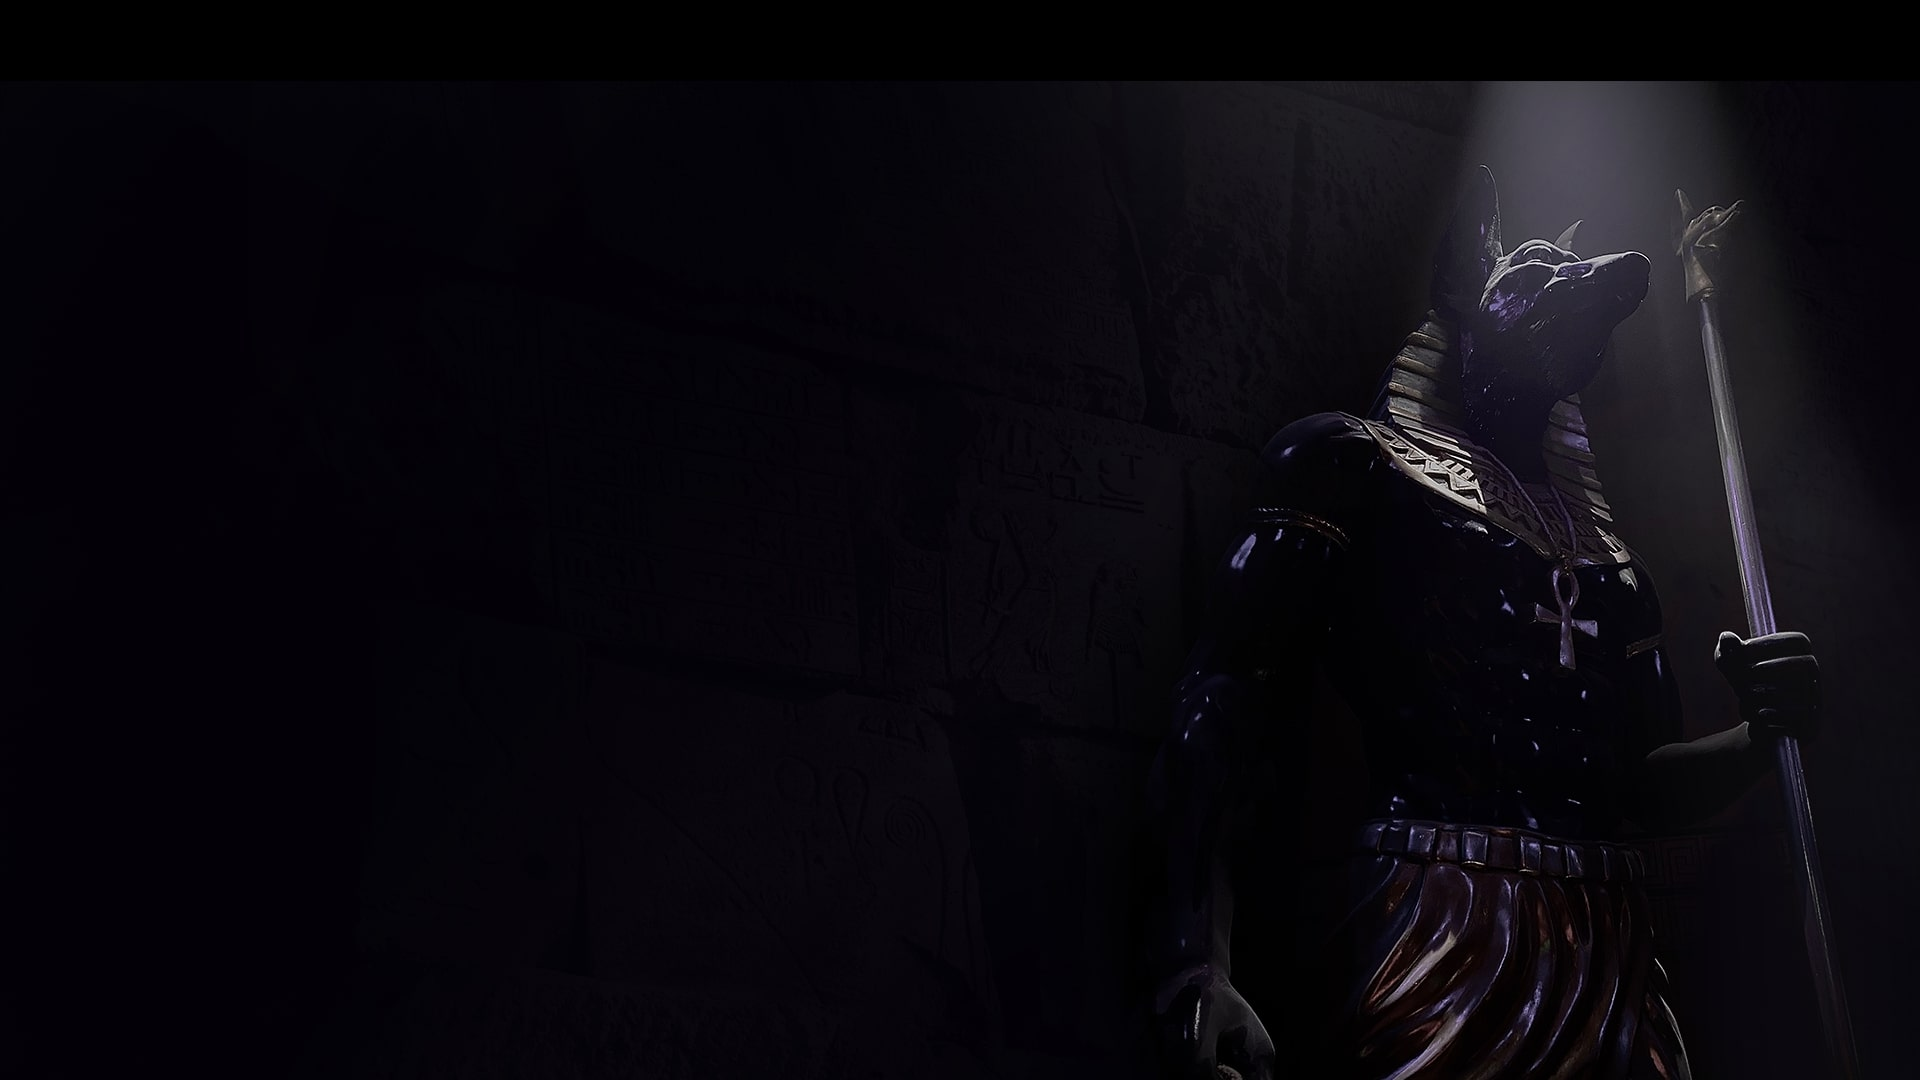
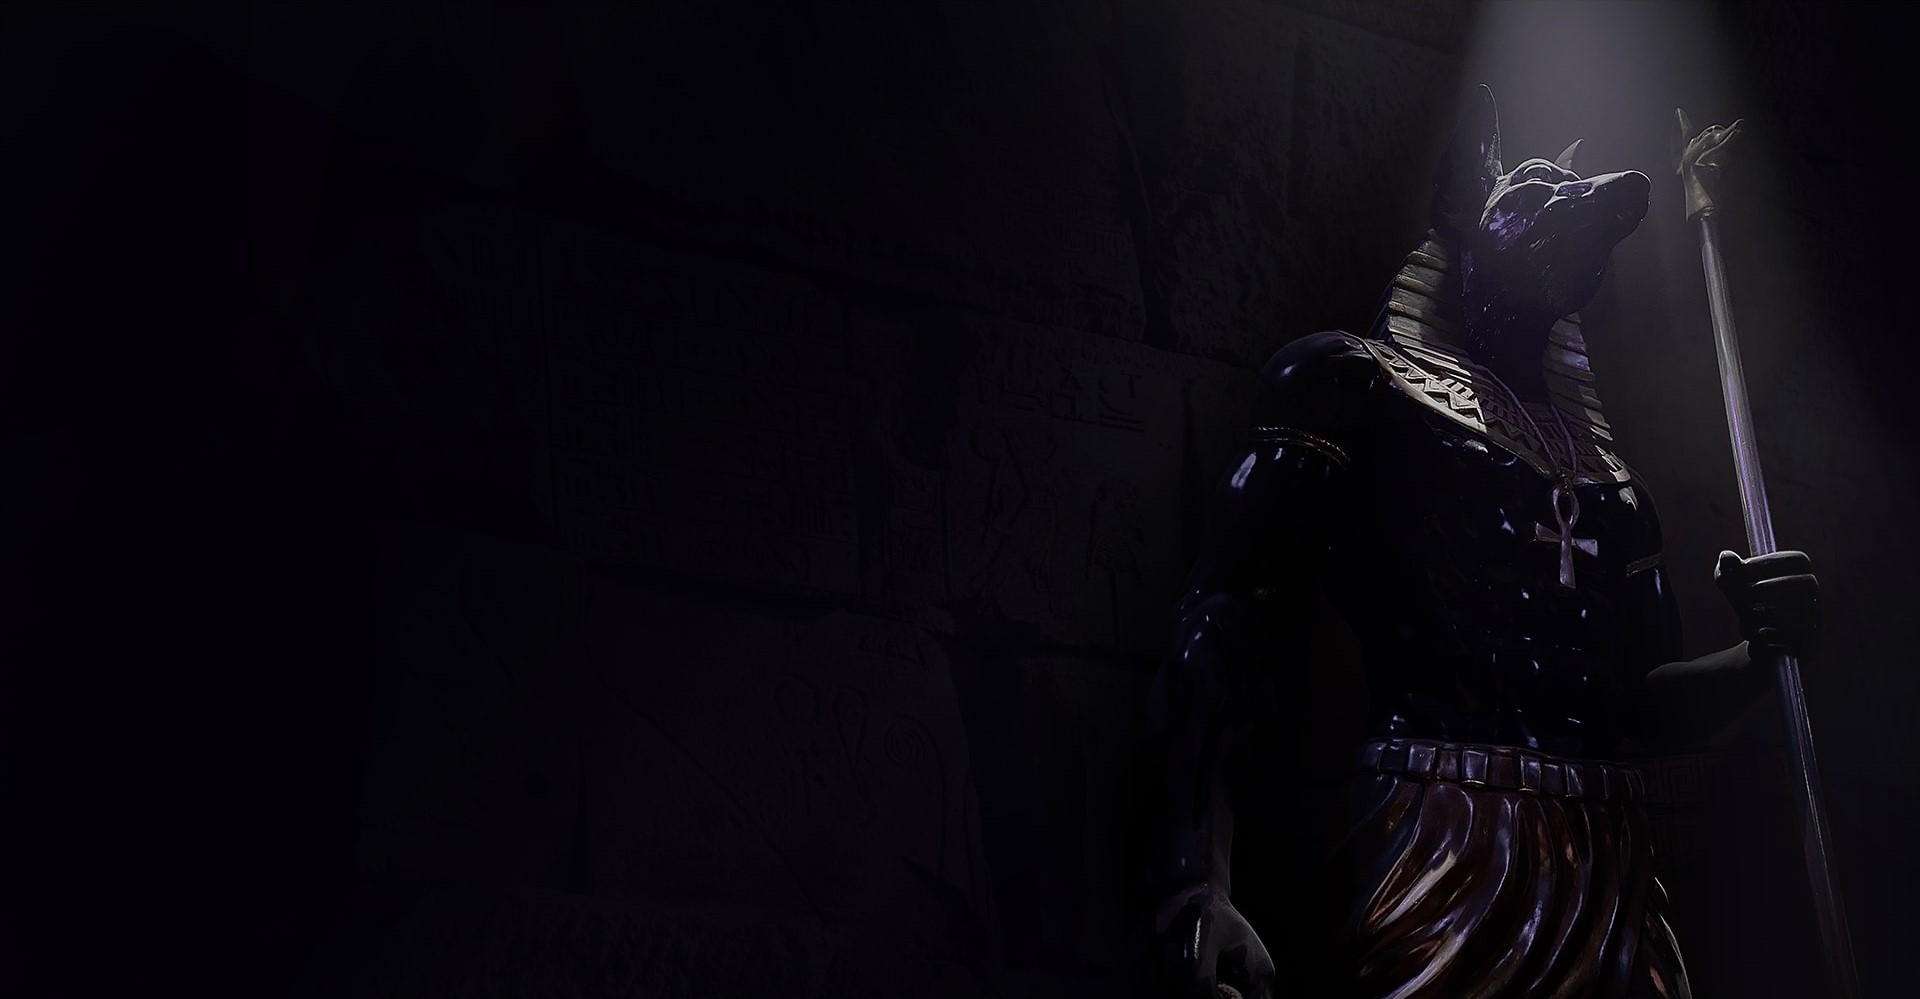
Loading Optimizations

diff --git a/games.css b/games.css
@@ -1,1 +1,1 @@
-#story_overview h3,#story_overview p{margin-bottom:.75rem}#games_info>div,.gallery_thumbs{grid-template-columns:auto auto auto}#game_pics h3,#games_info,#story_overview,.games_welcome h2,form{text-align:center}.games_welcome{height:8rem;width:100%;background-size:cover;padding:6rem 0 4rem;margin:40px 0 2rem}.pharaohs_welcome{background:url(assets/pharaohs-background.webp) center repeat-x}.clockwork_welcome{background:url(assets/clockwork-background.webp) center no-repeat}#story_overview button,.games_book{cursor:pointer;color:var(--black);background-color:var(--orange)}.games_welcome h2{font-size:1.8rem}.games_book{display:block;width:fit-content;margin:1rem auto 0;padding:.65rem 1.5rem;font-size:1rem;font-weight:700;border:none;box-shadow:0 0 .75rem .15rem rgba(2,2,6,.6);border-radius:.15rem}.more p,.pics_gallery{margin:0 auto}.games_book:focus-visible,.games_book:hover{background-color:var(--white);color:var(--orange)}.games_book:focus-visible{outline-color:var(--orange)}#story_overview{width:75%;margin:0 auto}#story_overview p{font-size:1.25rem}#story_overview button{padding:.5rem 1rem;font-size:.85rem;font-weight:700}#story_overview button:hover{background-color:var(--white);color:var(--orange)}.more{max-height:0;transition:max-height .3s ease-in-out;overflow:hidden}.more button,.more_btn{border-radius:.15rem;margin: 2px 2px;}.more button,.more p{visibility:hidden;width:0}.more.active{max-height:fit-content}.more.active button,.more.active p{visibility:visible;width:fit-content}#games_info img,.more_btn.inactive{visibility:hidden;display:none}#games_info{margin-top:2rem;padding:2.3rem 0 2rem;background-color:var(--black)}#games_info>div{display:grid;margin:1rem auto;justify-content:space-evenly}#games_info h3{font-size:1.3rem}#games_info p{font-size:1.1rem}@media screen and (min-width:750px){#games_info img{visibility:visible;display:block;width:8rem;height:auto;margin:0 auto}}#game_pics{width:80%;margin:1.3rem auto 2rem}#game_pics h3{margin-bottom:1.3rem}.pics_gallery{position:relative;width:80%}.gallery_slide{display:none}.gallery_slide img{width:100%;border-radius:.25rem}.thumbnails img{cursor:pointer}.next_img,.prev_img{cursor:pointer;position:absolute;width:auto;top:32%;padding-top:.3rem;padding-bottom:.5rem;color:#fff;background-color:var(--black);opacity:.8;border-radius:50%;font-weight:700;font-size:1.2rem;user-select:none;-webkit-user-select:none}.next_img:focus-visible,.next_img:hover,.prev_img:focus-visible,.prev_img:hover{color:var(--orange)}.prev_img{left:5%;padding-left:.85rem;padding-right:.95rem}.next_img{right:5%;padding-right:.85rem;padding-left:.95rem}.gallery_thumbs{display:grid;width:fit-content;height:min-content;justify-content:space-between;gap:.25rem}.preview_img,.thumbnails{width:100%;border-radius:.15rem}.thumbnails{float:left;height:fit-content;padding:0;background-color:transparent}.preview_img{height:auto;opacity:.5;outline:transparent solid 2px;transition:opacity .2s ease-in-out,outline .2s ease-in-out}.video{width:80%;margin:2rem auto}.video__iframe{aspect-ratio:16/9;width:100%;height:auto;border-radius:.25rem;position:relative}.video__notice{width:auto;margin:-1.25rem auto 0}.video__notice p{margin-bottom:0;font-size:.75rem}.video__notice a{font-weight:500}.video__notice button{font-size:.85rem;font-weight:500;padding:.4rem 1rem;margin-top:.75rem;border:none;cursor:pointer;background-color:var(--white);color:var(--black);border-radius:.15rem;opacity:.95}.video__notice button:focus-visible,.video__notice button:hover{color:var(--white);background-color:var(--orange);outline-color:var(--white)}form{padding:2%;background-color:rgba(16,16,20,.65);border:1px solid var(--orange);width:fit-content;border-radius:.2rem}.video__iframe.yt_hidden,.video__notice.notice_hidden{max-height:0;visibility:hidden;padding:0;margin:0}.preview_img.active{opacity:1;outline:2px solid var(--lt-gray)}@media screen and (min-width:1200px){#story_overview{text-align:left;margin:1rem 10%}.more p{margin:0}#games_info>div{margin:0 auto}#games_info h3{font-size:1.5rem}.pics_vids{display:grid;grid-template-columns:41% auto;place-items:center}.video{width:100%;margin:0}.video__notice{width:75%}}
+#story_overview h3,#story_overview p{margin-bottom:.75rem}#games_info>div,.gallery_thumbs{grid-template-columns:auto auto auto}#game_pics h3,#games_info,#story_overview,.games_welcome h2,form{text-align:center}.games_welcome{height:8rem;width:100%;padding:6rem 0 4rem;margin:40px 0 2rem}.pharaohs_welcome{background:url(assets/pharaohs-bgr.webp) center no-repeat;background-size: cover;}.clockwork_welcome{background:url(assets/clockwork-background.webp) center no-repeat;background-size: cover;}#story_overview button,.games_book{cursor:pointer;color:var(--black);background-color:var(--orange)}.games_welcome h2{font-size:1.8rem}.games_book{display:block;width:fit-content;margin:1rem auto 0;padding:.65rem 1.5rem;font-size:1rem;font-weight:700;border:none;box-shadow:0 0 .75rem .15rem rgba(2,2,6,.6);border-radius:.15rem}.more p,.pics_gallery{margin:0 auto}.games_book:focus-visible,.games_book:hover{background-color:var(--white);color:var(--orange)}.games_book:focus-visible{outline-color:var(--orange)}#story_overview{width:75%;margin:0 auto}#story_overview p{font-size:1.25rem}#story_overview button{padding:.5rem 1rem;font-size:.85rem;font-weight:700}#story_overview button:hover{background-color:var(--white);color:var(--orange)}.more{max-height:0;transition:max-height .3s ease-in-out;overflow:hidden}.more button,.more_btn{border-radius:.15rem;margin: 2px 2px;}.more button,.more p{visibility:hidden;width:0}.more.active{max-height:fit-content}.more.active button,.more.active p{visibility:visible;width:fit-content}#games_info img,.more_btn.inactive{visibility:hidden;display:none}#games_info{margin-top:2rem;padding:2.3rem 0 2rem;background-color:var(--black)}#games_info>div{display:grid;margin:1rem auto;justify-content:space-evenly}#games_info h3{font-size:1.3rem}#games_info p{font-size:1.1rem}@media screen and (min-width:750px){#games_info img{visibility:visible;display:block;width:8rem;height:auto;margin:0 auto}}#game_pics{width:80%;margin:1.3rem auto 2rem}#game_pics h3{margin-bottom:1.3rem}.pics_gallery{position:relative;width:80%}.gallery_slide{display:none}.gallery_slide img{width:100%;border-radius:.25rem}.thumbnails img{cursor:pointer}.next_img,.prev_img{cursor:pointer;position:absolute;width:auto;top:32%;padding-top:.3rem;padding-bottom:.5rem;color:#fff;background-color:var(--black);opacity:.8;border-radius:50%;font-weight:700;font-size:1.2rem;user-select:none;-webkit-user-select:none}.next_img:focus-visible,.next_img:hover,.prev_img:focus-visible,.prev_img:hover{color:var(--orange)}.prev_img{left:5%;padding-left:.85rem;padding-right:.95rem}.next_img{right:5%;padding-right:.85rem;padding-left:.95rem}.gallery_thumbs{display:grid;width:fit-content;height:min-content;justify-content:space-between;gap:.25rem}.preview_img,.thumbnails{width:100%;border-radius:.15rem}.thumbnails{float:left;height:fit-content;padding:0;background-color:transparent}.preview_img{height:auto;opacity:.5;outline:transparent solid 2px;transition:opacity .2s ease-in-out,outline .2s ease-in-out}.video{width:80%;margin:2rem auto}.video__iframe{aspect-ratio:16/9;width:100%;height:auto;border-radius:.25rem;position:relative}.video__notice{width:auto;margin:-1.25rem auto 0}.video__notice p{margin-bottom:0;font-size:.75rem}.video__notice a{font-weight:500}.video__notice button{font-size:.85rem;font-weight:500;padding:.4rem 1rem;margin-top:.75rem;border:none;cursor:pointer;background-color:var(--white);color:var(--black);border-radius:.15rem;opacity:.95}.video__notice button:focus-visible,.video__notice button:hover{color:var(--white);background-color:var(--orange);outline-color:var(--white)}form{padding:2%;background-color:rgba(16,16,20,.65);border:1px solid var(--orange);width:fit-content;border-radius:.2rem}.video__iframe.yt_hidden,.video__notice.notice_hidden{max-height:0;visibility:hidden;padding:0;margin:0}.preview_img.active{opacity:1;outline:2px solid var(--lt-gray)}@media screen and (min-width:1200px){#story_overview{text-align:left;margin:1rem 10%}.more p{margin:0}#games_info>div{margin:0 auto}#games_info h3{font-size:1.5rem}.pics_vids{display:grid;grid-template-columns:41% auto;place-items:center}.video{width:100%;margin:0}.video__notice{width:75%}}

diff --git a/pharaohs.html b/pharaohs.html
@@ -15,7 +15,7 @@
         <meta itemprop="description" content="Book Now! You are the ancient souls of the Egyptian pharaohs, whose afterlife abilities were bound by Set, the god of chaos.">
         <link rel="stylesheet" href="styles.css">
         <link rel="stylesheet" href="games.css">
-        <link rel="preload" fetchpriority="high" as="image" href="assets/pharaohs-background.webp" type="image/webp">
+        <link rel="preload" fetchpriority="high" as="image" href="assets/pharaohs-bgr.webp" type="image/webp">
         <link rel="preload" href="https://fonts.googleapis.com/css?family=Roboto:400,500,700&display=swap" as="style" onload="this.onload=null;this.rel='stylesheet'">
         <noscript><link href="https://fonts.googleapis.com/css?family=Open+Sans:400&display=swap" rel="stylesheet" type="text/css"></noscript>
         <link rel="preconnect" href="https://p.typekit.net">
